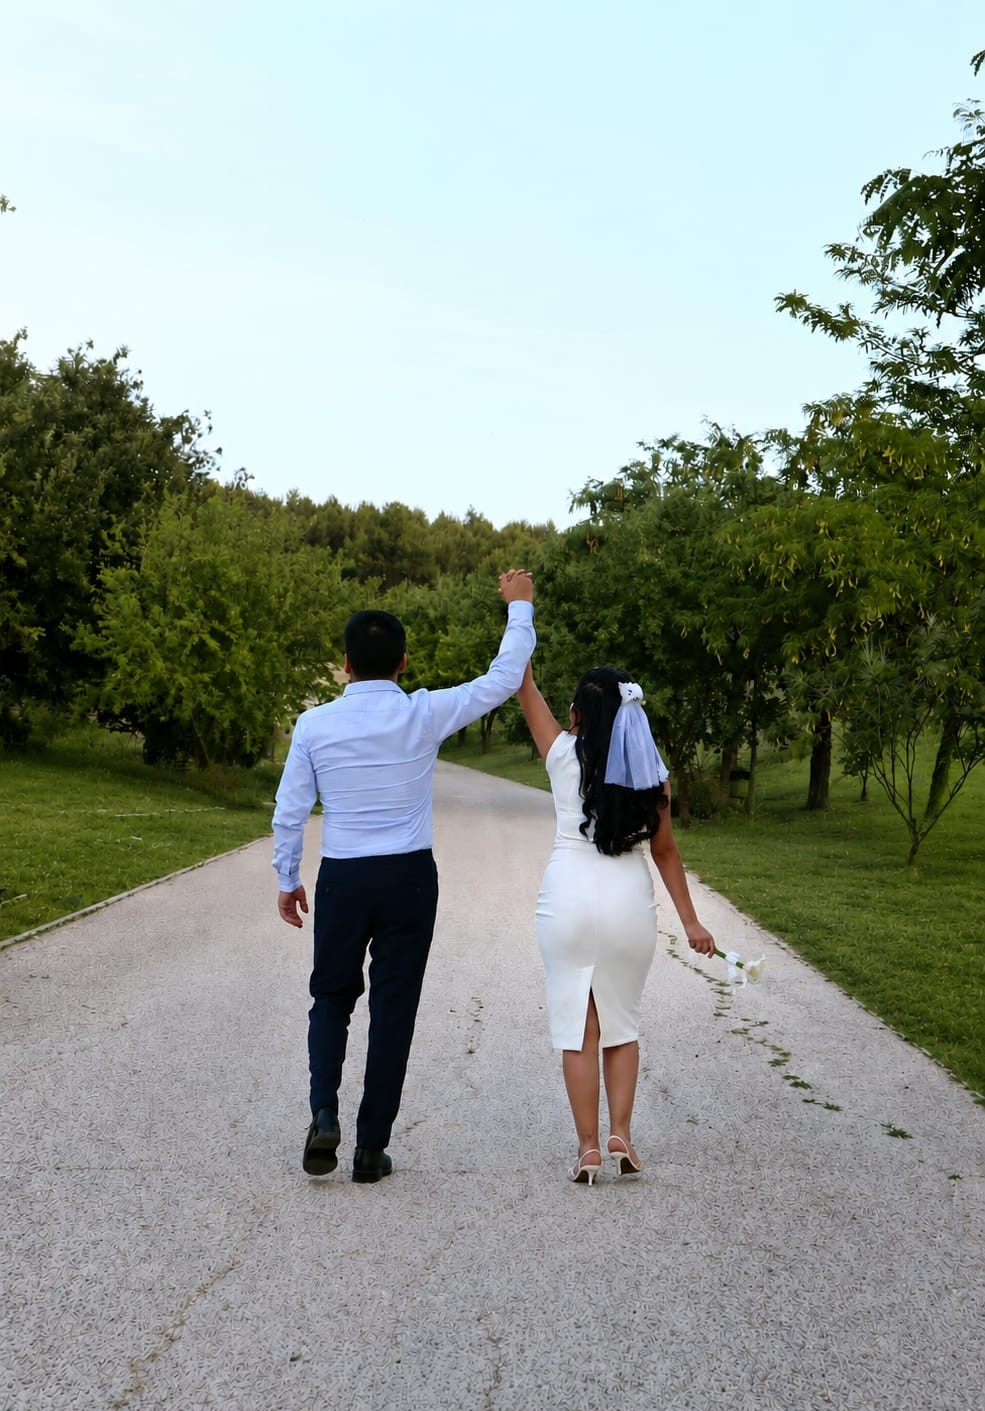
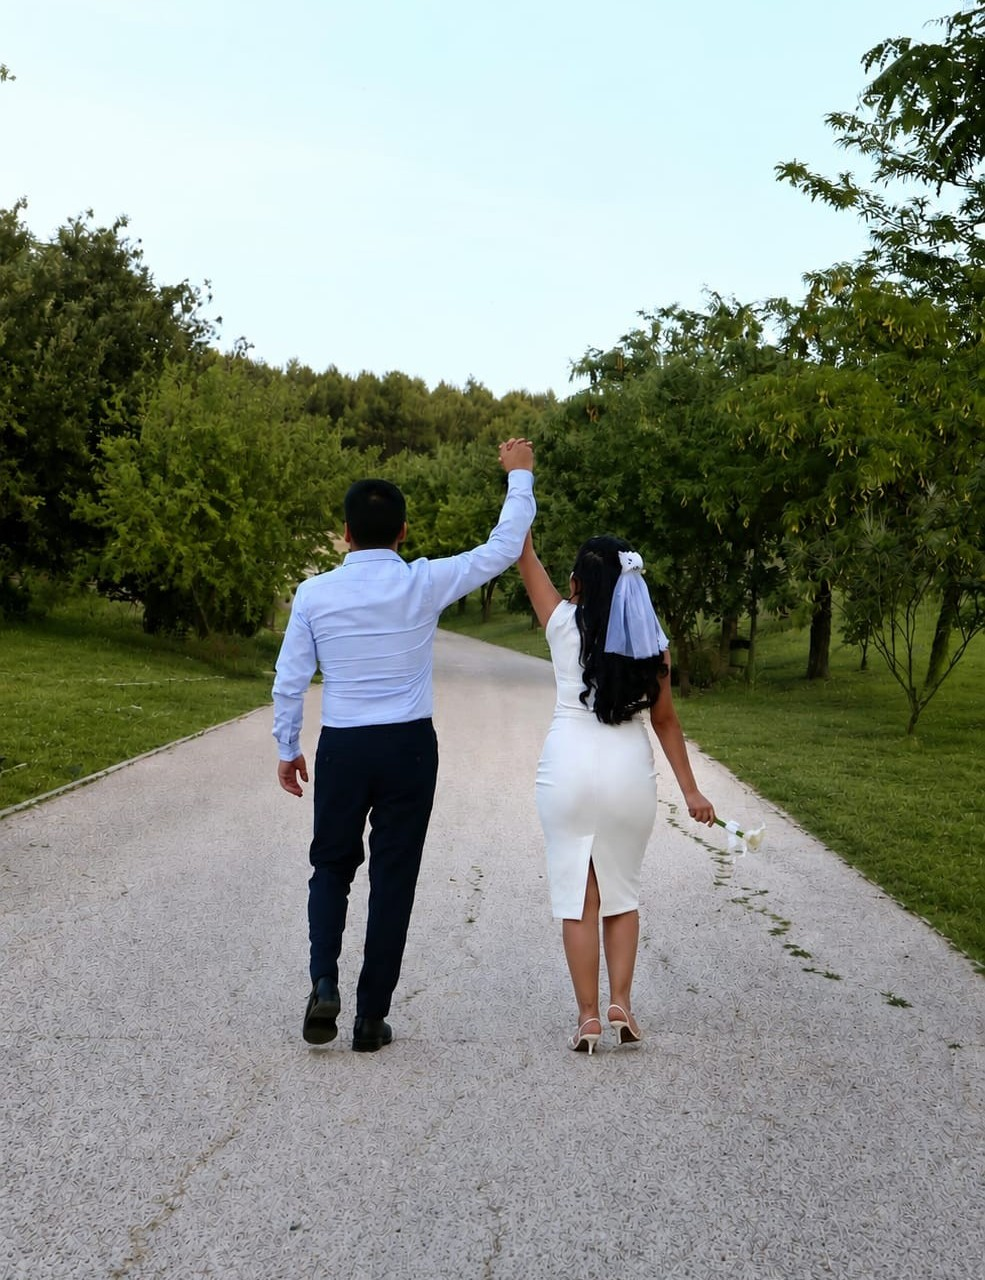
fin

diff --git a/styles.css b/styles.css
@@ -120,7 +120,6 @@ body {
 .base {
   z-index: 1;
   opacity: 1;
-  transition: opacity 3s linear;
   will-change: opacity;
   backface-visibility: hidden;
 }
@@ -130,7 +129,7 @@ body {
   position: absolute;
   width: 100%;
   height: 100%;
-  background: linear-gradient(to bottom, #f7f2e7, #e9e2d3);
+  background: #ffffff;
   z-index: 1;
   transform: translateZ(-60px);
   opacity: 0;
@@ -166,6 +165,7 @@ body {
 /* DESVANECER BASE */
 .open .base {
   opacity: 0;
+   transition: opacity 2s ease;
 }
 
 /* FLASH */
@@ -195,7 +195,7 @@ body {
 .content-page2-visible {
   display: block;
   width: 100%;
-  background: var(--bg);
+  background: #ffffff;
   overflow-x: hidden;
 }
 
@@ -1345,7 +1345,7 @@ clip-path: inset(0 0 0 0);
 /* IMAGEN */
 .color-image {
   width: clamp(60px, 30vw, 160px); /* 🔥 MÁS ANCHA */
-  
+  margin-bottom: 20PX;
   height: auto;
   display: block;
   transform: scale(1.2); /* 🔥 elimina aire lateral */
@@ -1725,13 +1725,13 @@ clip-path: inset(0 0 0 0);
 
 .details2-pases{
   font-family: var(--font-script);
-  font-size: clamp(13px, 3vw, 18px);
+  font-size: clamp(15px, 4vw, 20px);
   color: #6d7747;
 }
 
 .details2-reservado{
   font-family: var(--font-script);
-  font-size: clamp(13px, 3vw, 18px);
+  font-size: clamp(15px, 4vw, 20px);
   margin-top: 2px;
   color: #6d7747;
 }

diff --git a/index.html b/index.html
@@ -408,7 +408,7 @@
   <div class="color-text-line">
   <span class="color-text-1">Estos</span>
   <span class="color-text-2"> Colores</span>
-  <span class="color-text-3">son exclusivos para las damas y caballeros de honor.</span>
+  <span class="color-text-3">son exclusivos para las damas y <br>caballeros de honor.</span>
   </div>
 
   <div class="color-image-wrapper">
@@ -542,7 +542,7 @@
     <div class="details2-row-left">
       <span class="details2-pases">Hemos reservado para ti:</span>
       <span class="details2-pill">2</span>
-      <span class="details2-reservado">Pases</span>
+      <span class="details2-reservado">Pase</span>
       
     </div>
 
